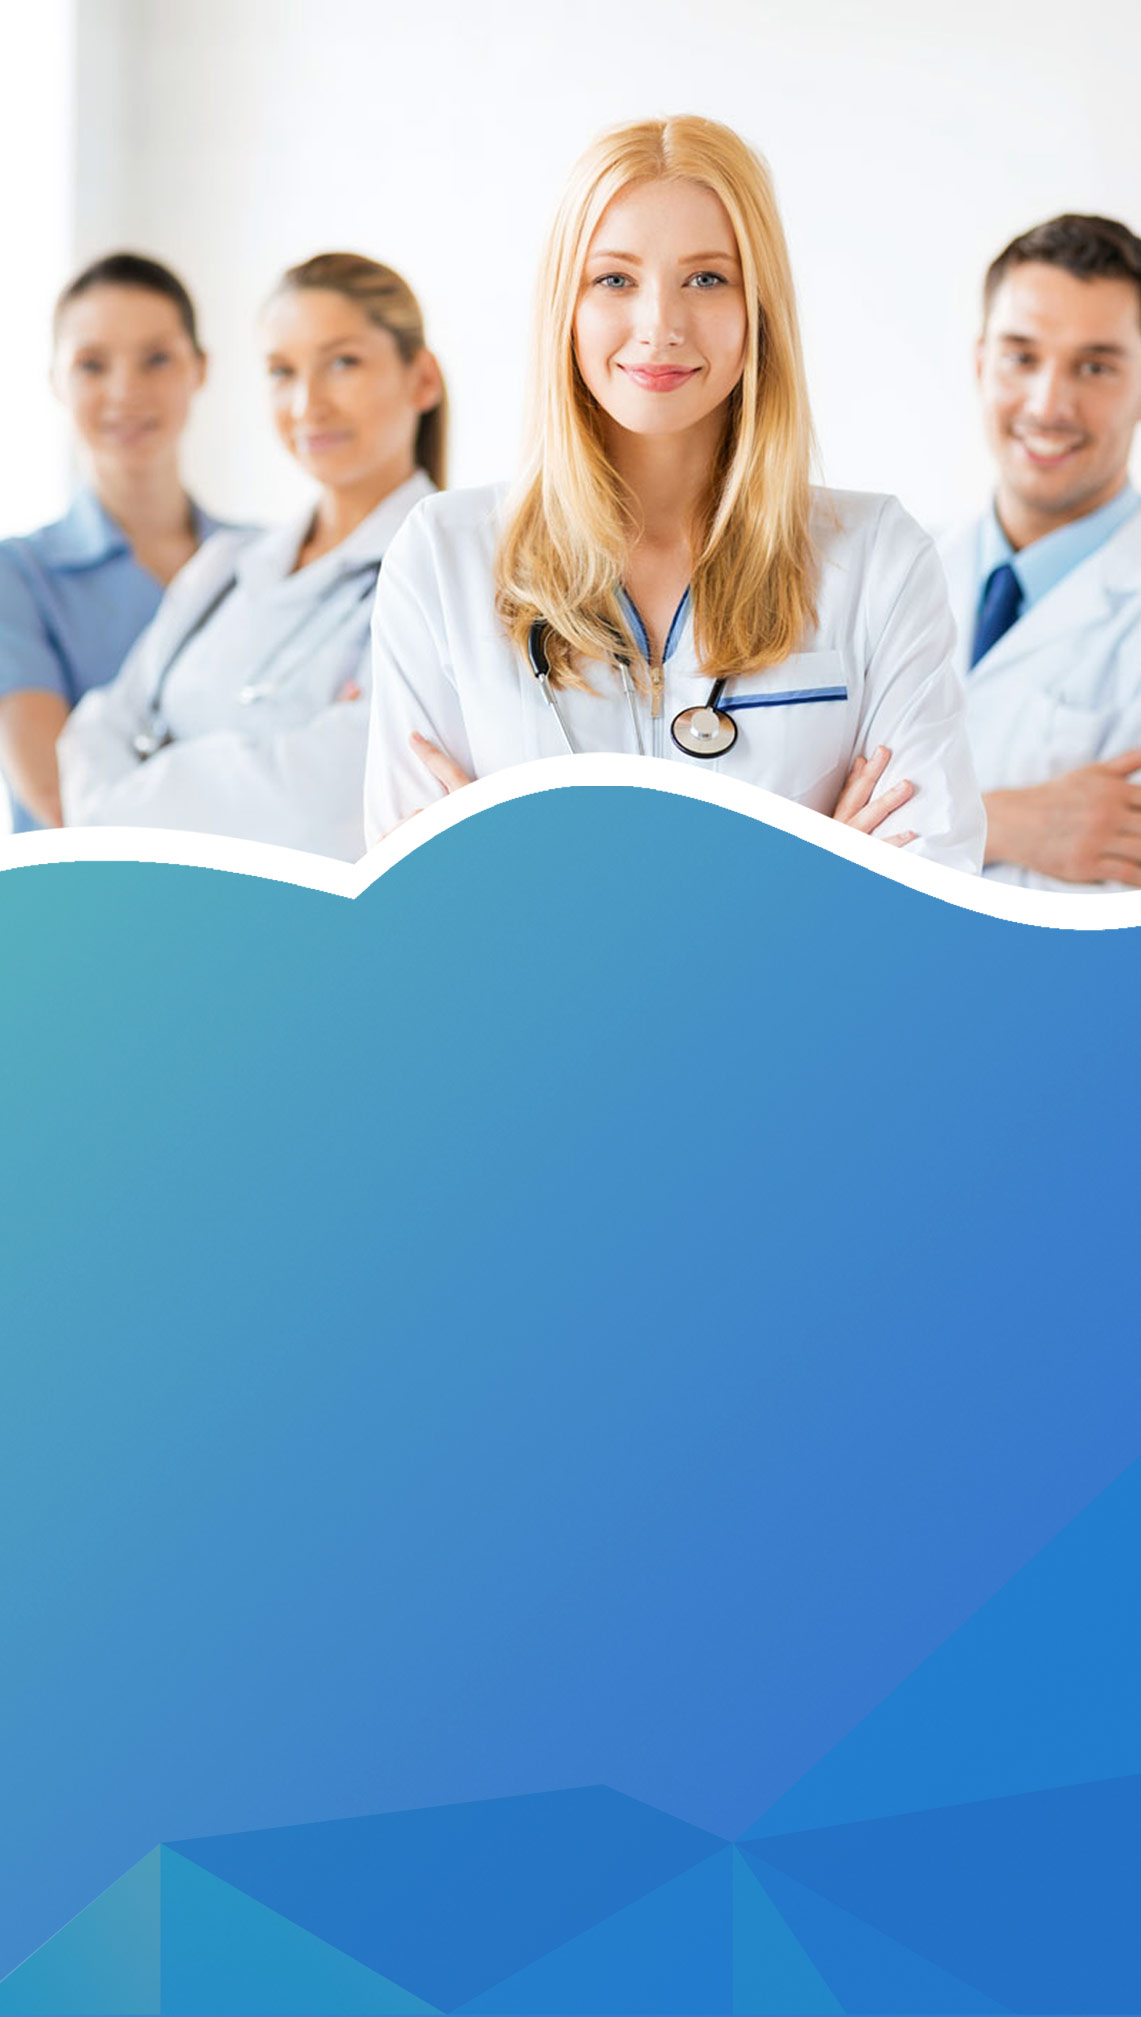
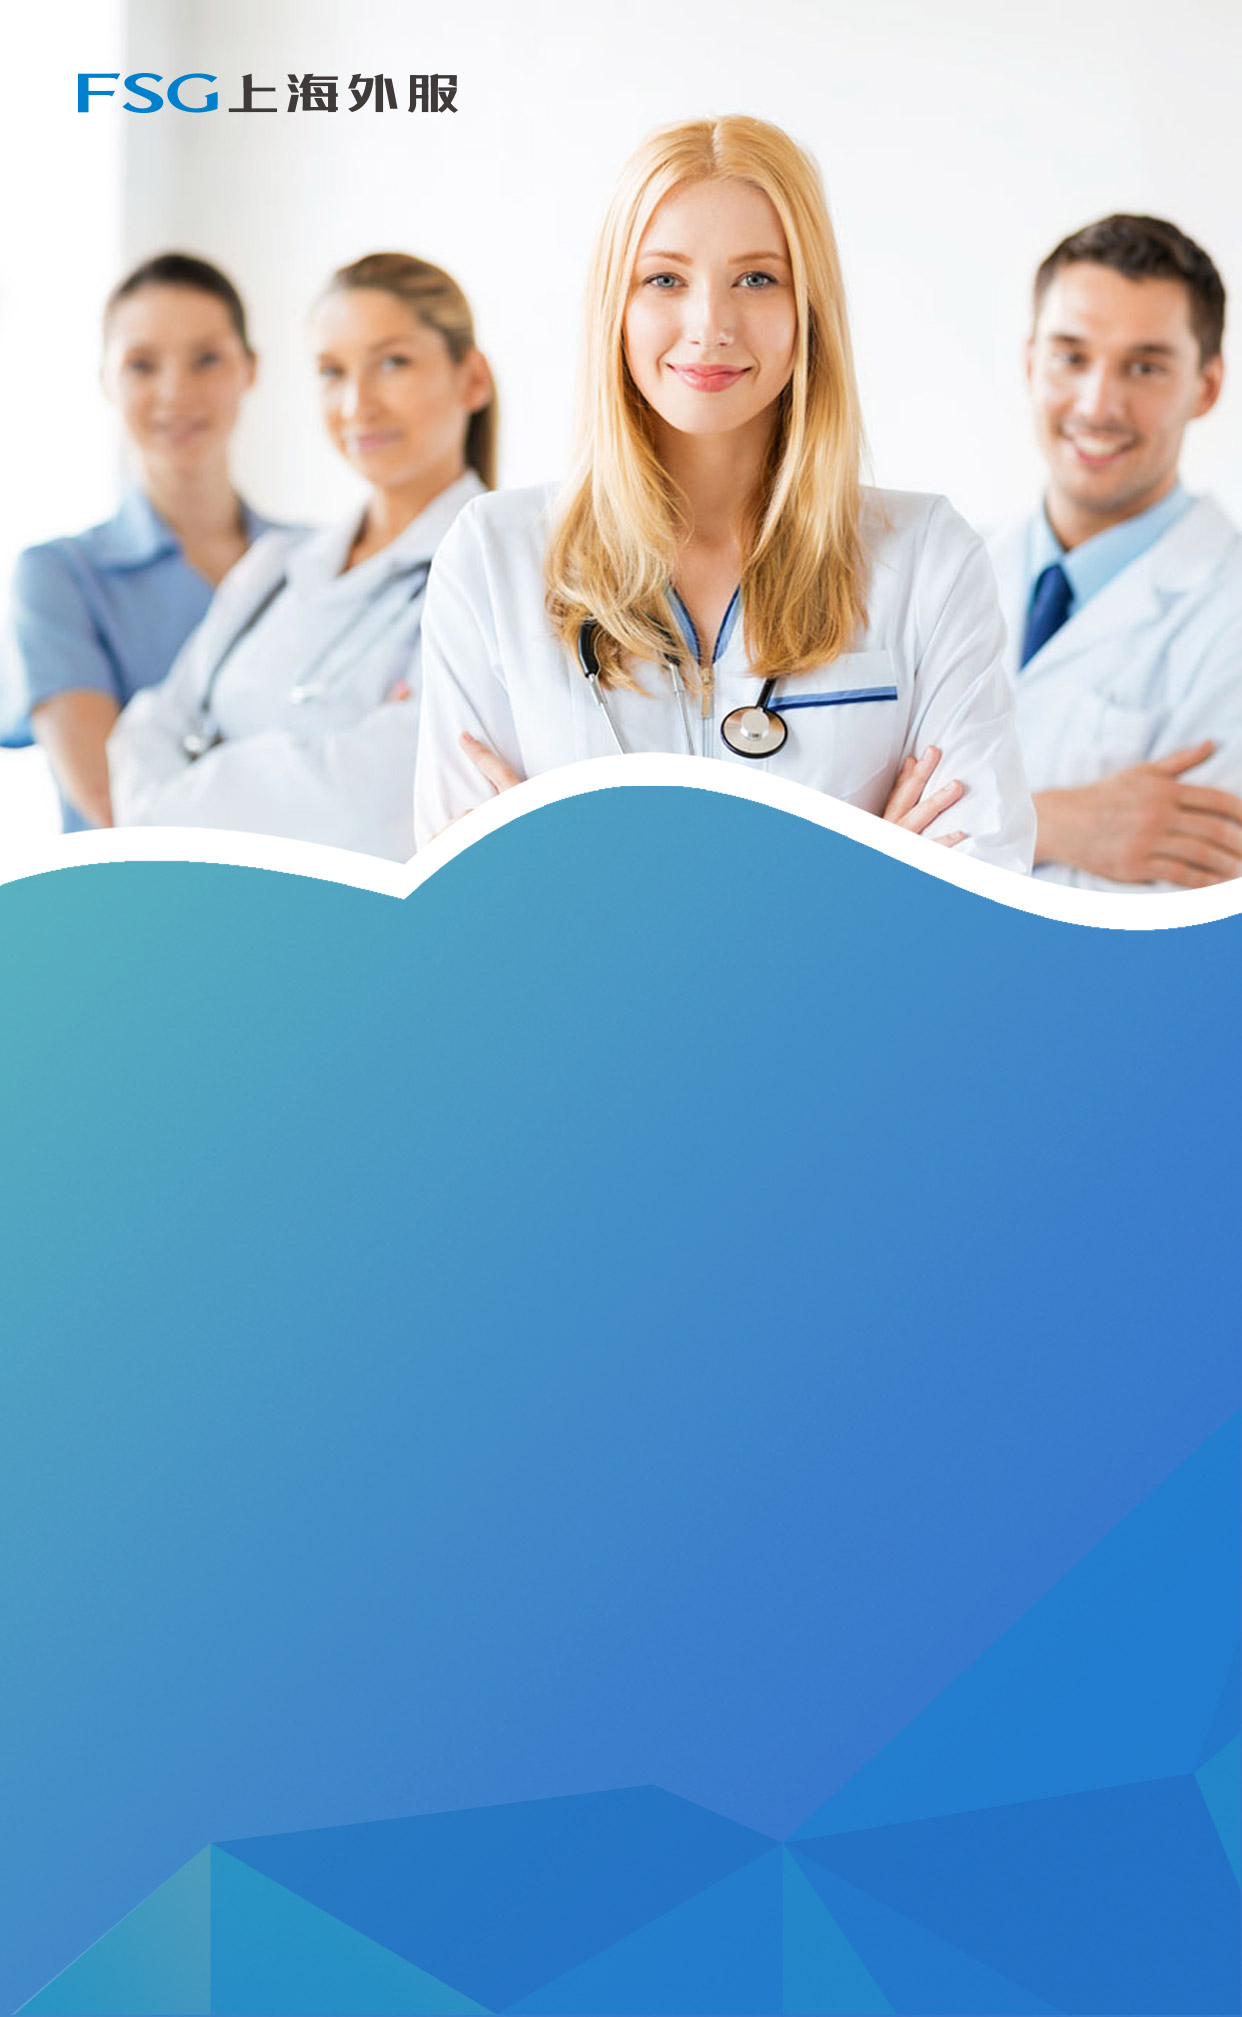
uploaded in 12/12
third upload to demotest

diff --git a/health.html b/health.html
@@ -4,21 +4,23 @@
 <meta charset="UTF-8">
 <title>健康体检</title>
 <meta name="viewport" content="width=device-width, initial-scale=1.0, maximum-scale=1.0, user-scalable=no">
-<link href="css/style.css" rel="stylesheet" type="text/css">
+<link href="css/base.css" rel="stylesheet" type="text/css">
 </head>
-
-<body id="health-background">
-	<div>
-		<img class="health-logocenter" width="150px" src="images/logo-y.svg">
-	</div>
-	<div style="text-align: center;">
+<script>
+    var deviceWidth = document.documentElement.clientWidth;
+    document.documentElement.style.fontSize = deviceWidth / 12.42 + 'px';
+</script>
+<body style="background: url(images/health-bg.jpg) no-repeat;background-size: cover;">
+	<div style="text-align: center;margin-top: 10rem;">
 		<img class="health-fontcenter" width="40%" src="images/font-01.png">
 	</div>
 	<div style="text-align: center;">
-		<div class="health-button-circular button-blue health-fontcenter2" onclick="window.location.href='http://mp.efesco.com/wechatO2O/efesco/physcialExamController.do?physcialExamIndex'">体检预约</div>
+		<div style="color: #FFFFFF;background: #56b3f5;width: 70%;margin: 0 auto;border-radius: 1rem;margin-top: 1rem; font-size: .55rem;
+    padding: .3rem 0;" onclick="window.location.href='http://mp.efesco.com/wechatO2O/efesco/physcialExamController.do?physcialExamIndex'">体检预约</div>
 	</div>
 	<div style="text-align: center;">
-		<div class="button-circular-transparency button-transparency health-fontcenter3" onclick="window.location.href='http://mp.efesco.com/wechatO2O/efesco/physcialExamController.do?physcialExamIndex'">体检报告查询</div>
+		<div style="color: #FFFFFF;border: 1px solid #fff;width: 70%;margin: 0 auto;border-radius: 1rem;margin-top: 1rem; font-size: .55rem;
+    padding: .3rem 0;" onclick="window.location.href='http://mp.efesco.com/wechatO2O/efesco/physcialExamController.do?physcialExamIndex'">体检报告查询</div>
 	</div>
 </body>
 </html>

diff --git a/css/base.css b/css/base.css
@@ -1,0 +1,53 @@
+@charset "UTF-8";
+@charset "UTF-8";
+html { -webkit-text-size-adjust: none; -webkit-user-select: none; -webkit-touch-callout: none; font-family: Helvetica; -webkit-box-sizing: border-box; box-sizing: border-box; }
+
+body, h1, h2, h3, h4, h5, h6, p, dl, dd, ul, ol, pre, form, input, textarea, th, td, select { margin: 0; padding: 0; font-weight: normal; text-indent: 0; }
+
+a, button, input, textarea, select { background: none; -webkit-tap-highlight-color: rgba(255, 0, 0, 0); outline: none; -webkit-appearance: none; }
+
+em { font-style: normal; }
+
+li { list-style: none; }
+
+a { text-decoration: none; }
+
+img { border: none; vertical-align: top; }
+
+table { border-collapse: collapse; }
+
+textarea { resize: none; overflow: auto; }
+html { min-height: 100%; font-family:"Hiragino Sans GB" ;}
+body { background: #FFFFFF; padding-bottom: 1rem; }
+
+/* 清除浮动 */
+.clear { zoom: 1; }
+.clear:after { content: ''; display: block; clear: both; }
+
+@font-face {
+  font-family: 'iconfont';  /* project id 282380 */
+  src: url('//at.alicdn.com/t/font_282380_wnpvjv78896n7b9.eot');
+  src: url('//at.alicdn.com/t/font_282380_wnpvjv78896n7b9.eot?#iefix') format('embedded-opentype'),
+  url('//at.alicdn.com/t/font_282380_wnpvjv78896n7b9.woff') format('woff'),
+  url('//at.alicdn.com/t/font_282380_wnpvjv78896n7b9.ttf') format('truetype'),
+  url('//at.alicdn.com/t/font_282380_wnpvjv78896n7b9.svg#iconfont') format('svg');
+}
+
+.iconfont{
+    font-family:"iconfont" !important;
+    font-size:16px;font-style:normal;
+    -webkit-font-smoothing: antialiased;
+    -webkit-text-stroke-width: 0.2px;
+    -moz-osx-font-smoothing: grayscale;}
+    
+a:link { 
+text-decoration: none; 
+} 
+a:visited { 
+text-decoration: none; 
+} 
+a:hover { 
+text-decoration: underline; 
+} 
+
+*{ -webkit-tap-highlight-color: rgba(0,0,0,0);-webkit-tap-highlight-color: transparent; /* For some Androids */ }  

diff --git a/css/goods.css b/css/goods.css
@@ -1,0 +1,67 @@
+body{
+	background: url(../images/bigbg.jpg) no-repeat;
+	background-size: cover;
+}
+.main{
+    margin-top: 11rem;
+}
+.goods-text input{
+        border: none;
+    width: 50%;
+    background: none;
+    color: #feffff;
+    height: 1rem;
+    line-height: 1rem;
+    font-size: .6rem;
+    overflow: hidden;
+    padding: .2rem 0;
+}
+.goods-text input:focus{
+    outline: none;
+}
+.goods-text input::-webkit-input-placeholder {
+    color: #ccc;
+    font-size: .6rem;
+}
+.goods-text span{
+	    font-size: .6rem;
+    color: #feffff;
+    width: 21%;
+    display: inline-block;
+    text-align: justify;text-justify: inter-ideograph;/* IE 私有属性 */
+    -moz-text-align-last: justify;    
+    -ms-text-align-last: justify;/* IE 8+ 支持 */
+    text-align-last: justify;/* IE5.5+ 支持 */
+
+}
+
+.goods-text div{
+    border-bottom: 1px solid #feffff;
+    width: 80%;
+    margin: 0 auto;
+    margin-top: .5rem;
+    position: relative;
+    font-size: .6rem;
+    letter-spacing: 2px;
+    color: #feffff;
+}
+.goods-btn a{
+        color: #feffff;
+    padding: .4rem 0;
+    width: 80%;
+    display: block;
+    margin: 0 auto;
+    text-align: center;
+    font-size: .6rem;
+    background: #56b3f6;
+    border-radius: .2rem;
+    margin-top: 1rem;
+    letter-spacing: 1px;
+}
+.goods-text div i{
+	    position: absolute;
+    color: #ccc;
+    font-size: 1rem;
+    top: .2rem;
+    right: 0;
+}

diff --git a/medical.html b/medical.html
@@ -4,18 +4,19 @@
 <meta charset="UTF-8">
 <title>医疗理赔</title>
 <meta name="viewport" content="width=device-width, initial-scale=1.0, maximum-scale=1.0, user-scalable=no">
-<link href="css/style.css" rel="stylesheet" type="text/css">
+<link href="css/base.css" rel="stylesheet" type="text/css">
 </head>
-
-<body id="medical-background">
-	<div>
-		<img class="health-logocenter" width="150px" src="images/logo-y.svg">
-	</div>
-	<div style="text-align: center;">
+<script>
+    var deviceWidth = document.documentElement.clientWidth;
+    document.documentElement.style.fontSize = deviceWidth / 12.42 + 'px';
+</script>
+<body id="medical-background" style="background: url(images/medical-bg.jpg) no-repeat;background-size: cover;">
+	<div style="text-align: center;margin-top: 11rem;">
 		<img class="health-fontcenter" width="40%" src="images/font-03.png">
 	</div>
 	<div style="text-align: center;">
-		<div class="health-button-circular button-blue health-fontcenter2" onclick="window.location.href='http://mp.efesco.com/wechatO2O/efesco/mbpController.do?entryMBPindex'">医疗理赔</div>
+		<div style="color: #FFFFFF;background: #56b3f5;width: 70%;margin: 0 auto;border-radius: 1rem;margin-top: 1rem; font-size: .55rem;
+    padding: .3rem 0;" onclick="window.location.href='http://mp.efesco.com/wechatO2O/efesco/mbpController.do?entryMBPindex'">医疗理赔</div>
 	</div>
 </body>
 </html>

diff --git a/salary.html b/salary.html
@@ -4,18 +4,19 @@
 <meta charset="UTF-8">
 <title>薪酬服务</title>
 <meta name="viewport" content="width=device-width, initial-scale=1.0, maximum-scale=1.0, user-scalable=no">
-<link href="css/style.css" rel="stylesheet" type="text/css">
+<link href="css/base.css" rel="stylesheet" type="text/css">
 </head>
-
-<body id="salary-background">
-	<div>
-		<img class="health-logocenter" width="150px" src="images/logo-y.svg">
-	</div>
-	<div style="text-align: center;">
+<script>
+    var deviceWidth = document.documentElement.clientWidth;
+    document.documentElement.style.fontSize = deviceWidth / 12.42 + 'px';
+</script>
+<body style="background: url(images/salary-bg.jpg) no-repeat;background-size: cover;">
+	<div style="text-align: center;margin-top: 11rem;">
 		<img class="health-fontcenter" width="40%" src="images/font-02.png">
 	</div>
 	<div style="text-align: center;">
-		<div class="health-button-circular button-blue health-fontcenter2" onclick="window.location.href='http://mp.efesco.com/wechatO2O/efesco/salaryController.do?goSalaryList'">我的工资</div>
+		<div style="color: #FFFFFF;background: #56b3f5;width: 70%;margin: 0 auto;border-radius: 1rem;margin-top: 1rem; font-size: .55rem;
+    padding: .3rem 0;" onclick="window.location.href='http://mp.efesco.com/wechatO2O/efesco/salaryController.do?goSalaryList'">我的工资</div>
 	</div>
 </body>
 </html>

diff --git a/welfaremain.html b/welfaremain.html
@@ -8,7 +8,9 @@
 </head>
 
 <body style="background-color: #F5F5F5;">
-	<div class="welfaremain-bg"></div>
+	<div class="">
+		<img src="images/scheme-head-bg5.jpg" style="width: 100%;"/>
+	</div>
 	<div class="layout-xfmain">
 		<div id="xf-left">
 			<img width="86%" src="images/xf1.png" onclick="window.location.href='salary.html'">
@@ -28,7 +30,7 @@
 			<img width="86%" src="images/xf5.png" onclick="window.location.href='http://mp.efesco.com/wechatO2O/efesco/employeeBenefitsController.do?goEmployeeBenefits&displaytitle=2'">
 		</div>
 		<div id="xf2-right">
-			<img width="86%">
+			<img width="86%" src="images/xf-more.png">
 		</div>
 	</div>
 	

diff --git a/about.html b/about.html
@@ -6,10 +6,9 @@
 <title>关于FSG C&B</title>
 <link href="css/style.css" rel="stylesheet" type="text/css">
 </head>
-
 <body style="background-image: url(images/about-bg.jpg)">
 	<div class="aboutus-bg01">
-		<h1 class="titleh1">FSG 上海外服 | 薪酬福利</h1>
+		<h1 class="titleh1" style="font-family: sans-serif;">FSG 上海外服 | 薪酬福利</h1>
 	</div>
 	<div class="layout">
 		<div class="layout-font">
@@ -26,6 +25,9 @@
 	</div>
 		<div class="image-layout">
 		<img width="85%" src="images/aboutus-icon-2.png">
+	</div>
+	<div>
+		<img src="images/about_bottom.png" style="width: 100%;"/>
 	</div>
 	<br>
 	

diff --git a/salary-welfare.html b/salary-welfare.html
@@ -3,13 +3,13 @@
 <head>
 <meta charset="UTF-8">
 <meta name="viewport" content="width=device-width, initial-scale=1.0, maximum-scale=1.0, user-scalable=no">
-<title>薪酬福利</title>
+<title>薪酬管理</title>
 <link href="css/style.css" rel="stylesheet" type="text/css">
 </head>
 
 <body style="background-image: url(images/about-bg.jpg)">
 	<div class="salarywelfare-bg">
-		<h1 class="titleh1white">薪酬福利</h1>
+		<h1 class="titleh1white">薪酬管理</h1>
 		<h4 class="titlewhite"> | 全面薪酬福利解决方案引领者 | </h4>
 	</div>
 	<div class="layout">
